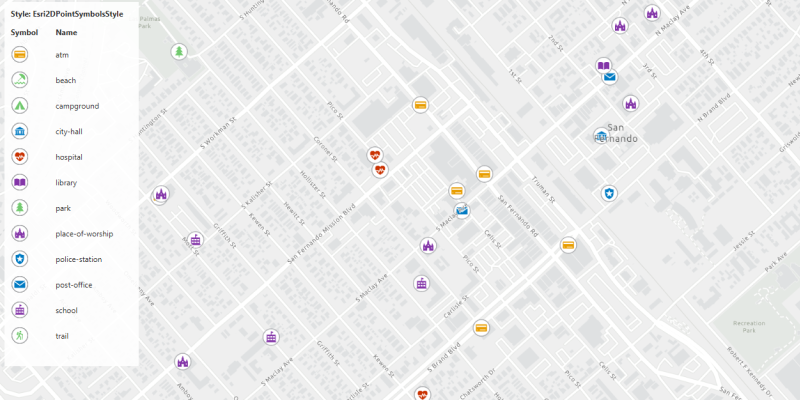
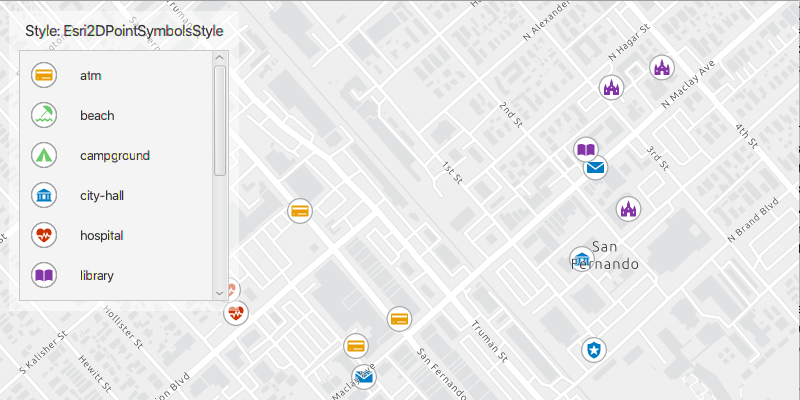
update image and increase vbox size

diff --git a/symbology/create-symbol-styles-from-web-styles/src/main/java/com/esri/samples/create_symbol_styles_from_web_styles/CreateSymbolStylesFromWebStylesSample.java b/symbology/create-symbol-styles-from-web-styles/src/main/java/com/esri/samples/create_symbol_styles_from_web_styles/CreateSymbolStylesFromWebStylesSample.java
@@ -189,11 +189,12 @@ public class CreateSymbolStylesFromWebStylesSample extends Application {
 
     // create a box to show the legend
     vBox = new VBox();
-    vBox.setMaxSize(220, 300);
+    vBox.setMaxSize(230, 300);
     vBox.setBackground(new Background(new BackgroundFill(Paint.valueOf("rgba(255, 255, 255 ,0.5)"), CornerRadii.EMPTY,
       Insets.EMPTY)));
     vBox.setPadding(new Insets(10.0));
     vBox.setAlignment(Pos.TOP_CENTER);
+    vBox.setSpacing(10);
 
     // create a grid pane
     legendGridPane = new GridPane();
